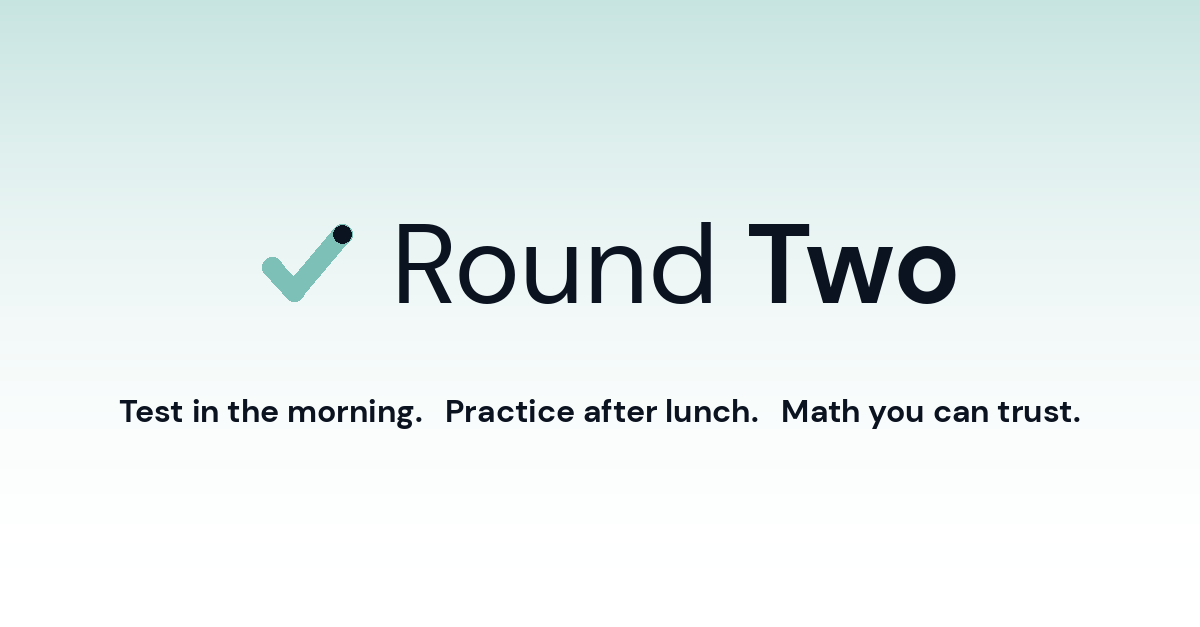
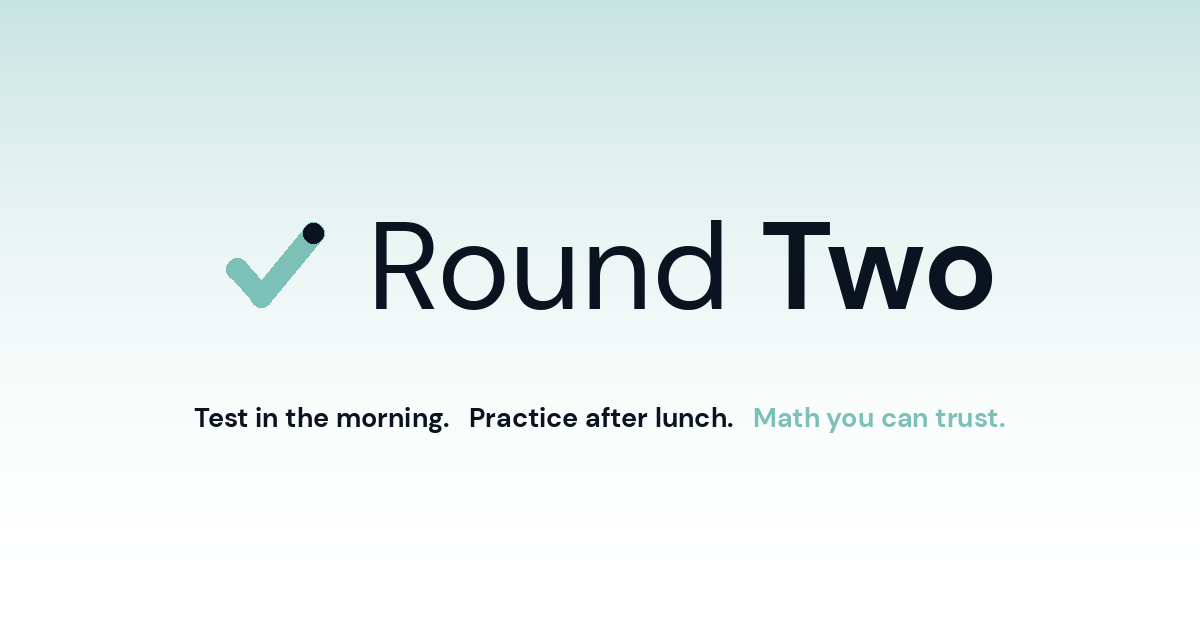
Wide variant: tagline auto-sized to match lockup width, glacier on third
Two refinements per user:

- Tagline rendered width now matches the lockup width. Done by scaling
  the font size from a base measurement: render the tagline at 40 px,
  measure, then scale by lockup_width / measured_width. Lands within a
  couple of pixels of the lockup width every time.
- Lockup slightly wider (mark 132 -> 144 px, wordmark 112 -> 124 px,
  ~720 -> ~800 px total) so the tagline can size up to a comfortable
  27 px and still match. The slight bump per the user's permission.
- Sentences rendered separately so colors can split: first two in
  charcoal, "Math you can trust." in glacier — matches the app's hero
  accent color.

https://claude.ai/code/session_017A9rQx86Juxytge4ZEmx55

Changed region(s): [[0.185, 0.3333, 0.8325, 0.5152], [0.0925, 0.6364, 0.8942, 0.697]]

diff --git a/brand/social/generate_linkedin_wide.py b/brand/social/generate_linkedin_wide.py
@@ -3,11 +3,10 @@
 Output: brand/social/round-two-linkedin-wide.png  (1200x627)
 
 Composition:
-  - Brand lockup at ~60% of canvas width, centered horizontally
-  - Single-row tagline below: "Test in the morning. Practice after
-    lunch. Math you can trust." All three sentences in the same DM Sans
-    Bold weight, same charcoal color — uniform treatment, no glacier
-    emphasis on the third sentence.
+  - Brand lockup centered horizontally
+  - Single-row tagline below, sized so its rendered width matches the
+    lockup width exactly. Two charcoal sentences + a glacier
+    "Math you can trust." (matching the app's hero accent color).
   - Glacier-wash background flowing top-down (same as the primary
     variant for brand consistency).
 """
@@ -84,12 +83,13 @@ def main() -> None:
     img = render_background()
     draw = ImageDraw.Draw(img)
 
-    # Target lockup width = 60% of canvas. Mark + wordmark sizes tuned to
-    # land within a few px of 720 (60% of 1200).
-    target_lockup_w = int(W * 0.60)
-    mark_size = 132
-    wordmark_size = 112
-    gap = 20
+    # Lockup sizing — slightly wider than the original 60% target so the
+    # tagline at a comfortable read size can match it exactly. With these
+    # sizes the lockup lands at ~800 px, leaving the tagline at ~30 px
+    # font (highly readable on LinkedIn).
+    mark_size = 144
+    wordmark_size = 124
+    gap = 22
 
     wm_regular = ImageFont.truetype(DMSANS_REGULAR, wordmark_size)
     wm_bold = ImageFont.truetype(DMSANS_BOLD, wordmark_size)
@@ -102,12 +102,28 @@ def main() -> None:
     wm_top = min(a_bbox[1], b_bbox[1])
     lockup_w = mark_size + gap + a_w + b_w
 
-    # Single-row tagline. All three sentences in the same DM Sans Bold,
-    # same charcoal — uniform treatment per the user's spec.
-    tagline_size = 32
+    # Single-row tagline, three sentences with consistent generous spacing
+    # between them. Last sentence in glacier as the visual hook (matches
+    # the app's hero accent color).
+    SEP = "   "  # three spaces between sentences for breathing room
+    sentences = [
+        ("Test in the morning." + SEP, CHARCOAL),
+        ("Practice after lunch." + SEP, CHARCOAL),
+        ("Math you can trust.", GLACIER),
+    ]
+    full_text = "".join(s for s, _ in sentences)
+
+    # Pick a tagline font size whose rendered width matches the lockup
+    # width as closely as possible. Linear scaling from a base measurement
+    # is accurate enough for a target match within a couple of pixels.
+    base_size = 40
+    base_font = ImageFont.truetype(DMSANS_BOLD, base_size)
+    base_bbox = draw.textbbox((0, 0), full_text, font=base_font)
+    base_w = base_bbox[2] - base_bbox[0]
+    tagline_size = max(20, int(round(base_size * lockup_w / base_w)))
+
     tagline_font = ImageFont.truetype(DMSANS_BOLD, tagline_size)
-    tagline = "Test in the morning.   Practice after lunch.   Math you can trust."
-    tag_bbox = draw.textbbox((0, 0), tagline, font=tagline_font)
+    tag_bbox = draw.textbbox((0, 0), full_text, font=tagline_font)
     tag_w = tag_bbox[2] - tag_bbox[0]
     tag_h = tag_bbox[3] - tag_bbox[1]
     tag_top = tag_bbox[1]
@@ -117,7 +133,8 @@ def main() -> None:
     total_h = mark_size + breathing + tag_h
     content_top = (H - total_h) // 2
 
-    # Center both horizontally on the canvas.
+    # Center lockup and tagline horizontally on the canvas (both share the
+    # same width by construction, so they align cleanly).
     lockup_left = (W - lockup_w) // 2
     lockup_cy = content_top + mark_size // 2
 
@@ -129,14 +146,20 @@ def main() -> None:
     draw.text((wm_x, wm_y), word_a, font=wm_regular, fill=CHARCOAL)
     draw.text((wm_x + a_w, wm_y), word_b, font=wm_bold, fill=CHARCOAL)
 
+    # Render each tagline sentence with its own color, accumulating x.
     tag_x = (W - tag_w) // 2
     tag_y = content_top + mark_size + breathing - tag_top
-    draw.text((tag_x, tag_y), tagline, font=tagline_font, fill=CHARCOAL)
+    cursor_x = tag_x
+    for sentence, color in sentences:
+        draw.text((cursor_x, tag_y), sentence, font=tagline_font, fill=color)
+        bbox = draw.textbbox((cursor_x, tag_y), sentence, font=tagline_font)
+        cursor_x = bbox[2]
 
     OUT.parent.mkdir(parents=True, exist_ok=True)
     img.save(OUT, "PNG", optimize=True)
     print(f"Wrote {OUT}  ({W}x{H})  lockup_w={lockup_w}  "
-          f"target={target_lockup_w}  ratio={lockup_w / W:.2f}  tagline_w={tag_w}")
+          f"tagline_w={tag_w}  tagline_size={tagline_size}px  "
+          f"width_diff={tag_w - lockup_w:+d}px")
 
 
 if __name__ == "__main__":
